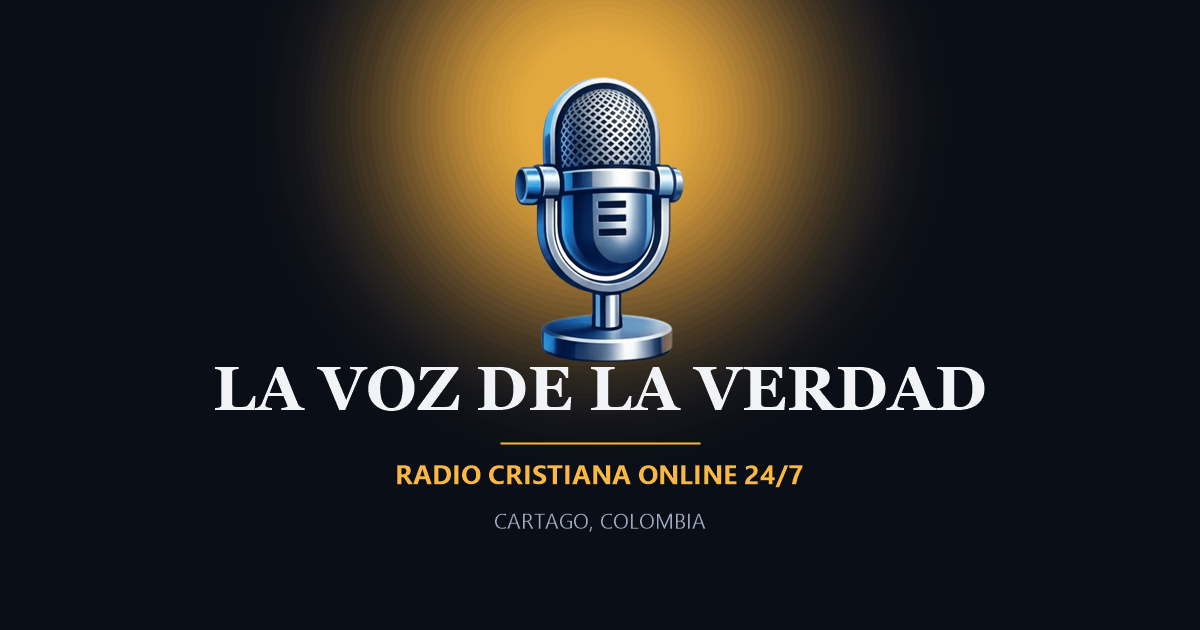
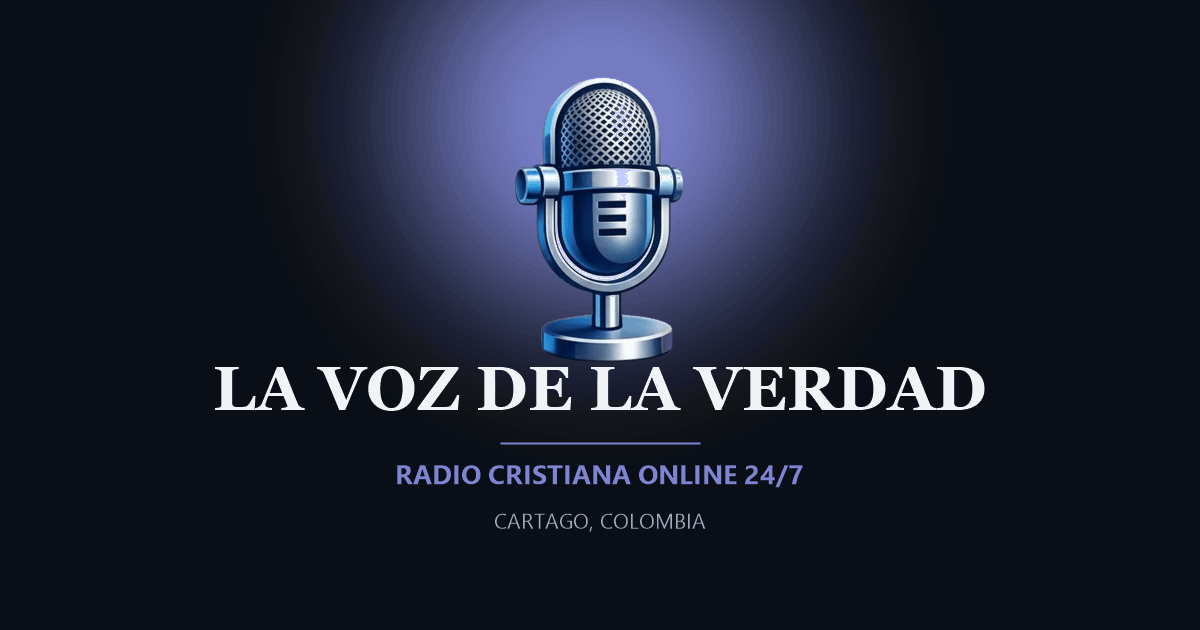
fix(web): repaint the social preview card in the public indigo
The card was lit by a gold lamp, which is the admin signal-amber and the only
warm surface on the public site. The glow, the rule and the tagline now use the
indigo of --primary; the microphone and the type keep their original pixels.

Converting the gold by hue alone left a brown ring where the glow turns
neutral, so the neutral light is tinted too.

OG_IMAGE_VERSION bumps the image URL because nginx serves the PNG with a 30 day
expiry and link previews are cached per full URL.

Changed region(s): [[0.2775, 0.0, 0.7092, 0.6032], [0.3083, 0.6937, 0.6783, 0.7841], [0.4933, 0.2714, 0.5242, 0.3016]]

diff --git a/apps/web/index.html b/apps/web/index.html
@@ -27,8 +27,8 @@
     <meta property="og:url" content="https://lavozverdad.com/" />
     <meta property="og:title" content="La Voz de la Verdad | Radio Cristiana Online" />
     <meta property="og:description" content="Emisora cristiana online transmitiendo 24/7 desde Colombia. Escucha música de alabanza, adoración y mensajes bíblicos que edifican tu fe." />
-    <meta property="og:image" content="https://lavozverdad.com/og-image.png" />
-    <meta property="og:image:secure_url" content="https://lavozverdad.com/og-image.png" />
+    <meta property="og:image" content="https://lavozverdad.com/og-image.png?v=2" />
+    <meta property="og:image:secure_url" content="https://lavozverdad.com/og-image.png?v=2" />
     <meta property="og:image:type" content="image/png" />
     <meta property="og:image:width" content="1200" />
     <meta property="og:image:height" content="630" />
@@ -36,7 +36,7 @@
     <meta name="twitter:card" content="summary_large_image" />
     <meta name="twitter:title" content="La Voz de la Verdad | Radio Cristiana Online" />
     <meta name="twitter:description" content="Emisora cristiana online transmitiendo 24/7 desde Colombia. Escucha música de alabanza, adoración y mensajes bíblicos que edifican tu fe." />
-    <meta name="twitter:image" content="https://lavozverdad.com/og-image.png" />
+    <meta name="twitter:image" content="https://lavozverdad.com/og-image.png?v=2" />
     <meta name="twitter:image:alt" content="La Voz de la Verdad" />
     <!--/seo:social-->
     

diff --git a/apps/web/src/config/seo.config.ts b/apps/web/src/config/seo.config.ts
@@ -22,7 +22,14 @@ export const LOCALE = 'es_CO';
 
 export const LOCALE_NAME = 'es_La_Voz_de_la_Verdad';
 
-export const DEFAULT_OG_IMAGE_PATH = '/og-image.png';
+/**
+ * Bumped whenever the card is redrawn. Link previews are cached per full URL,
+ * so a platform that already stored the old image (WhatsApp, Facebook) only
+ * fetches the replacement when the URL changes.
+ */
+const OG_IMAGE_VERSION = 2;
+
+export const DEFAULT_OG_IMAGE_PATH = `/og-image.png?v=${String(OG_IMAGE_VERSION)}`;
 
 export const OG_IMAGE_WIDTH = 1200;
 

diff --git a/docs/frontend-context.md b/docs/frontend-context.md
@@ -436,4 +436,18 @@ title and one description. Search metadata is now generated per route.
   `og:image` reference that previously pointed at a nonexistent
   `/icon-512x512.png`. `public/og-image.png` (1200x630) has its own byte
   ceiling instead of the icon-set one.
+- **The card is lit by the public indigo, not by the admin amber.** The old
+  export warmed the backdrop with a gold lamp (hue ~45), which is the admin
+  signal-amber and the only warm surface anywhere in the public site; the
+  replacement keeps the microphone and the type untouched and rebuilds the
+  light at hue ~244, the same family as `--primary`. The microphone is cool on
+  its own, so only the glow, the rule and the tagline moved. Contact sheets of
+  the falloff still ended brown where the glow turns neutral, so the
+  conversion tints that neutral light too; a plain hue rotation reintroduces
+  it.
+- **`OG_IMAGE_VERSION` in `seo.config.ts` is a cache key, not a label.** Link
+  previews are cached per full URL for around a month (nginx serves the PNG
+  with `expires 30d`), so a redrawn card keeps showing the old one everywhere
+  until the query string changes. Bump it with the file, and update the three
+  static tags in `index.html` to match.
 
